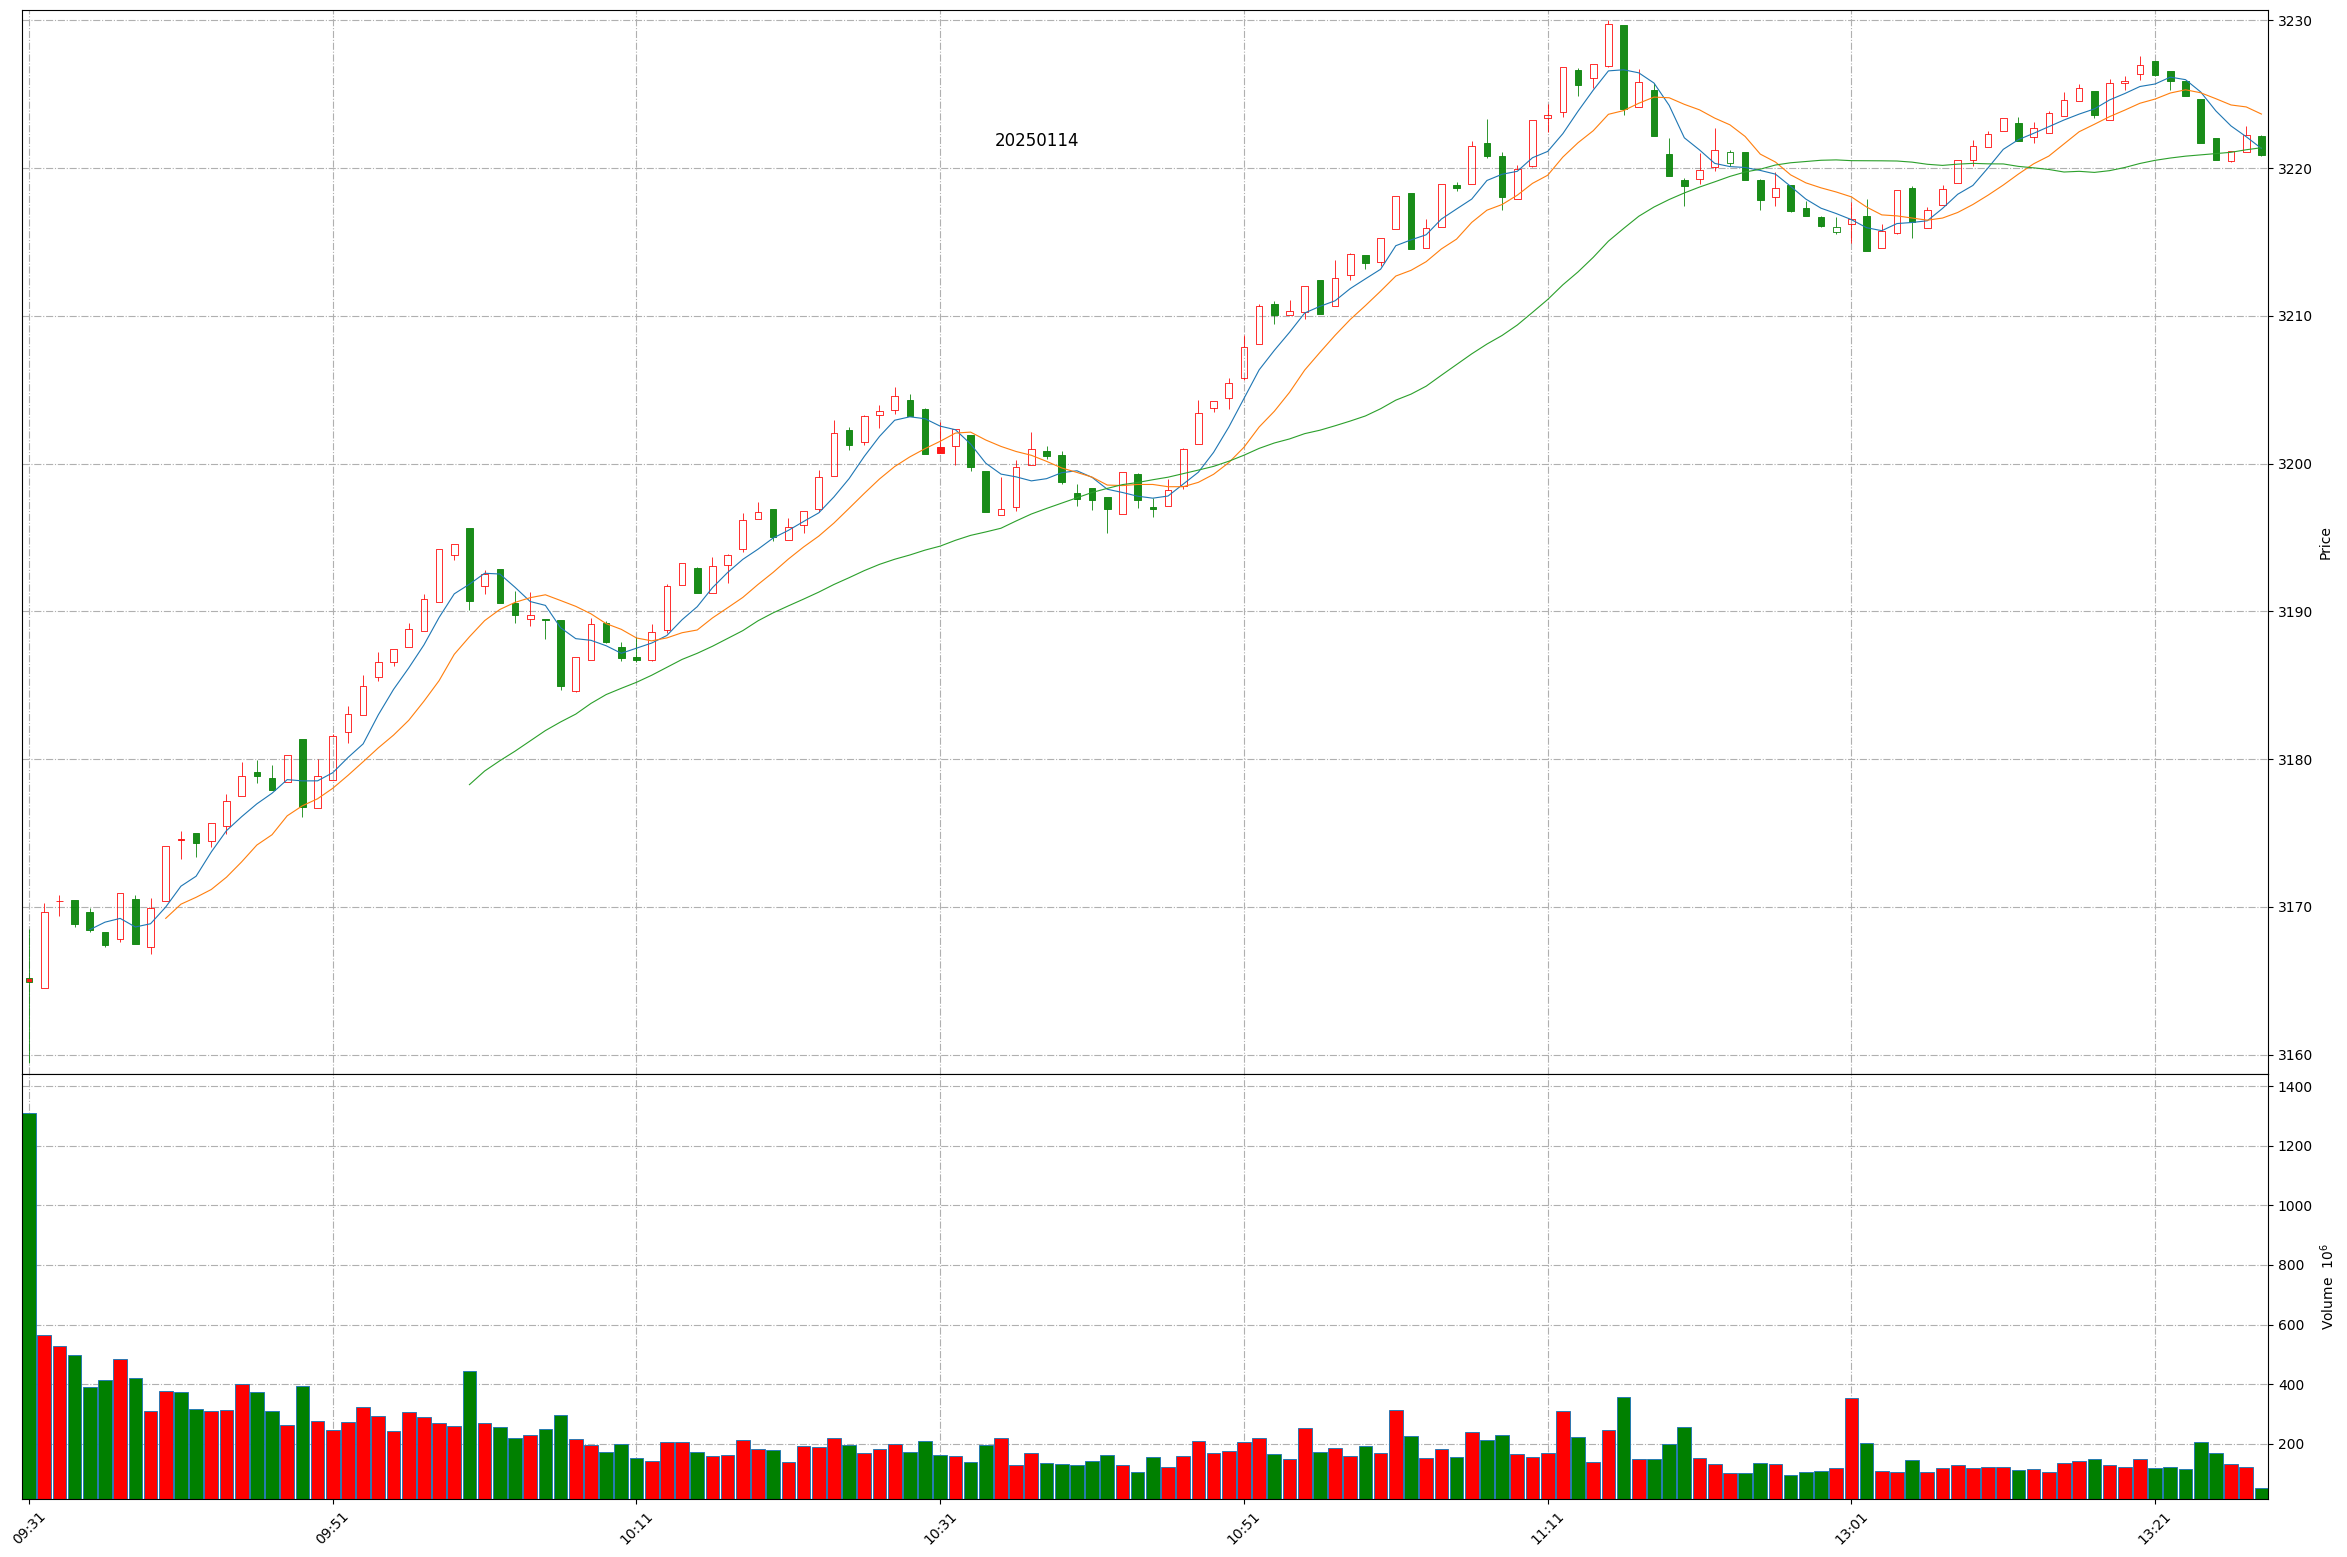
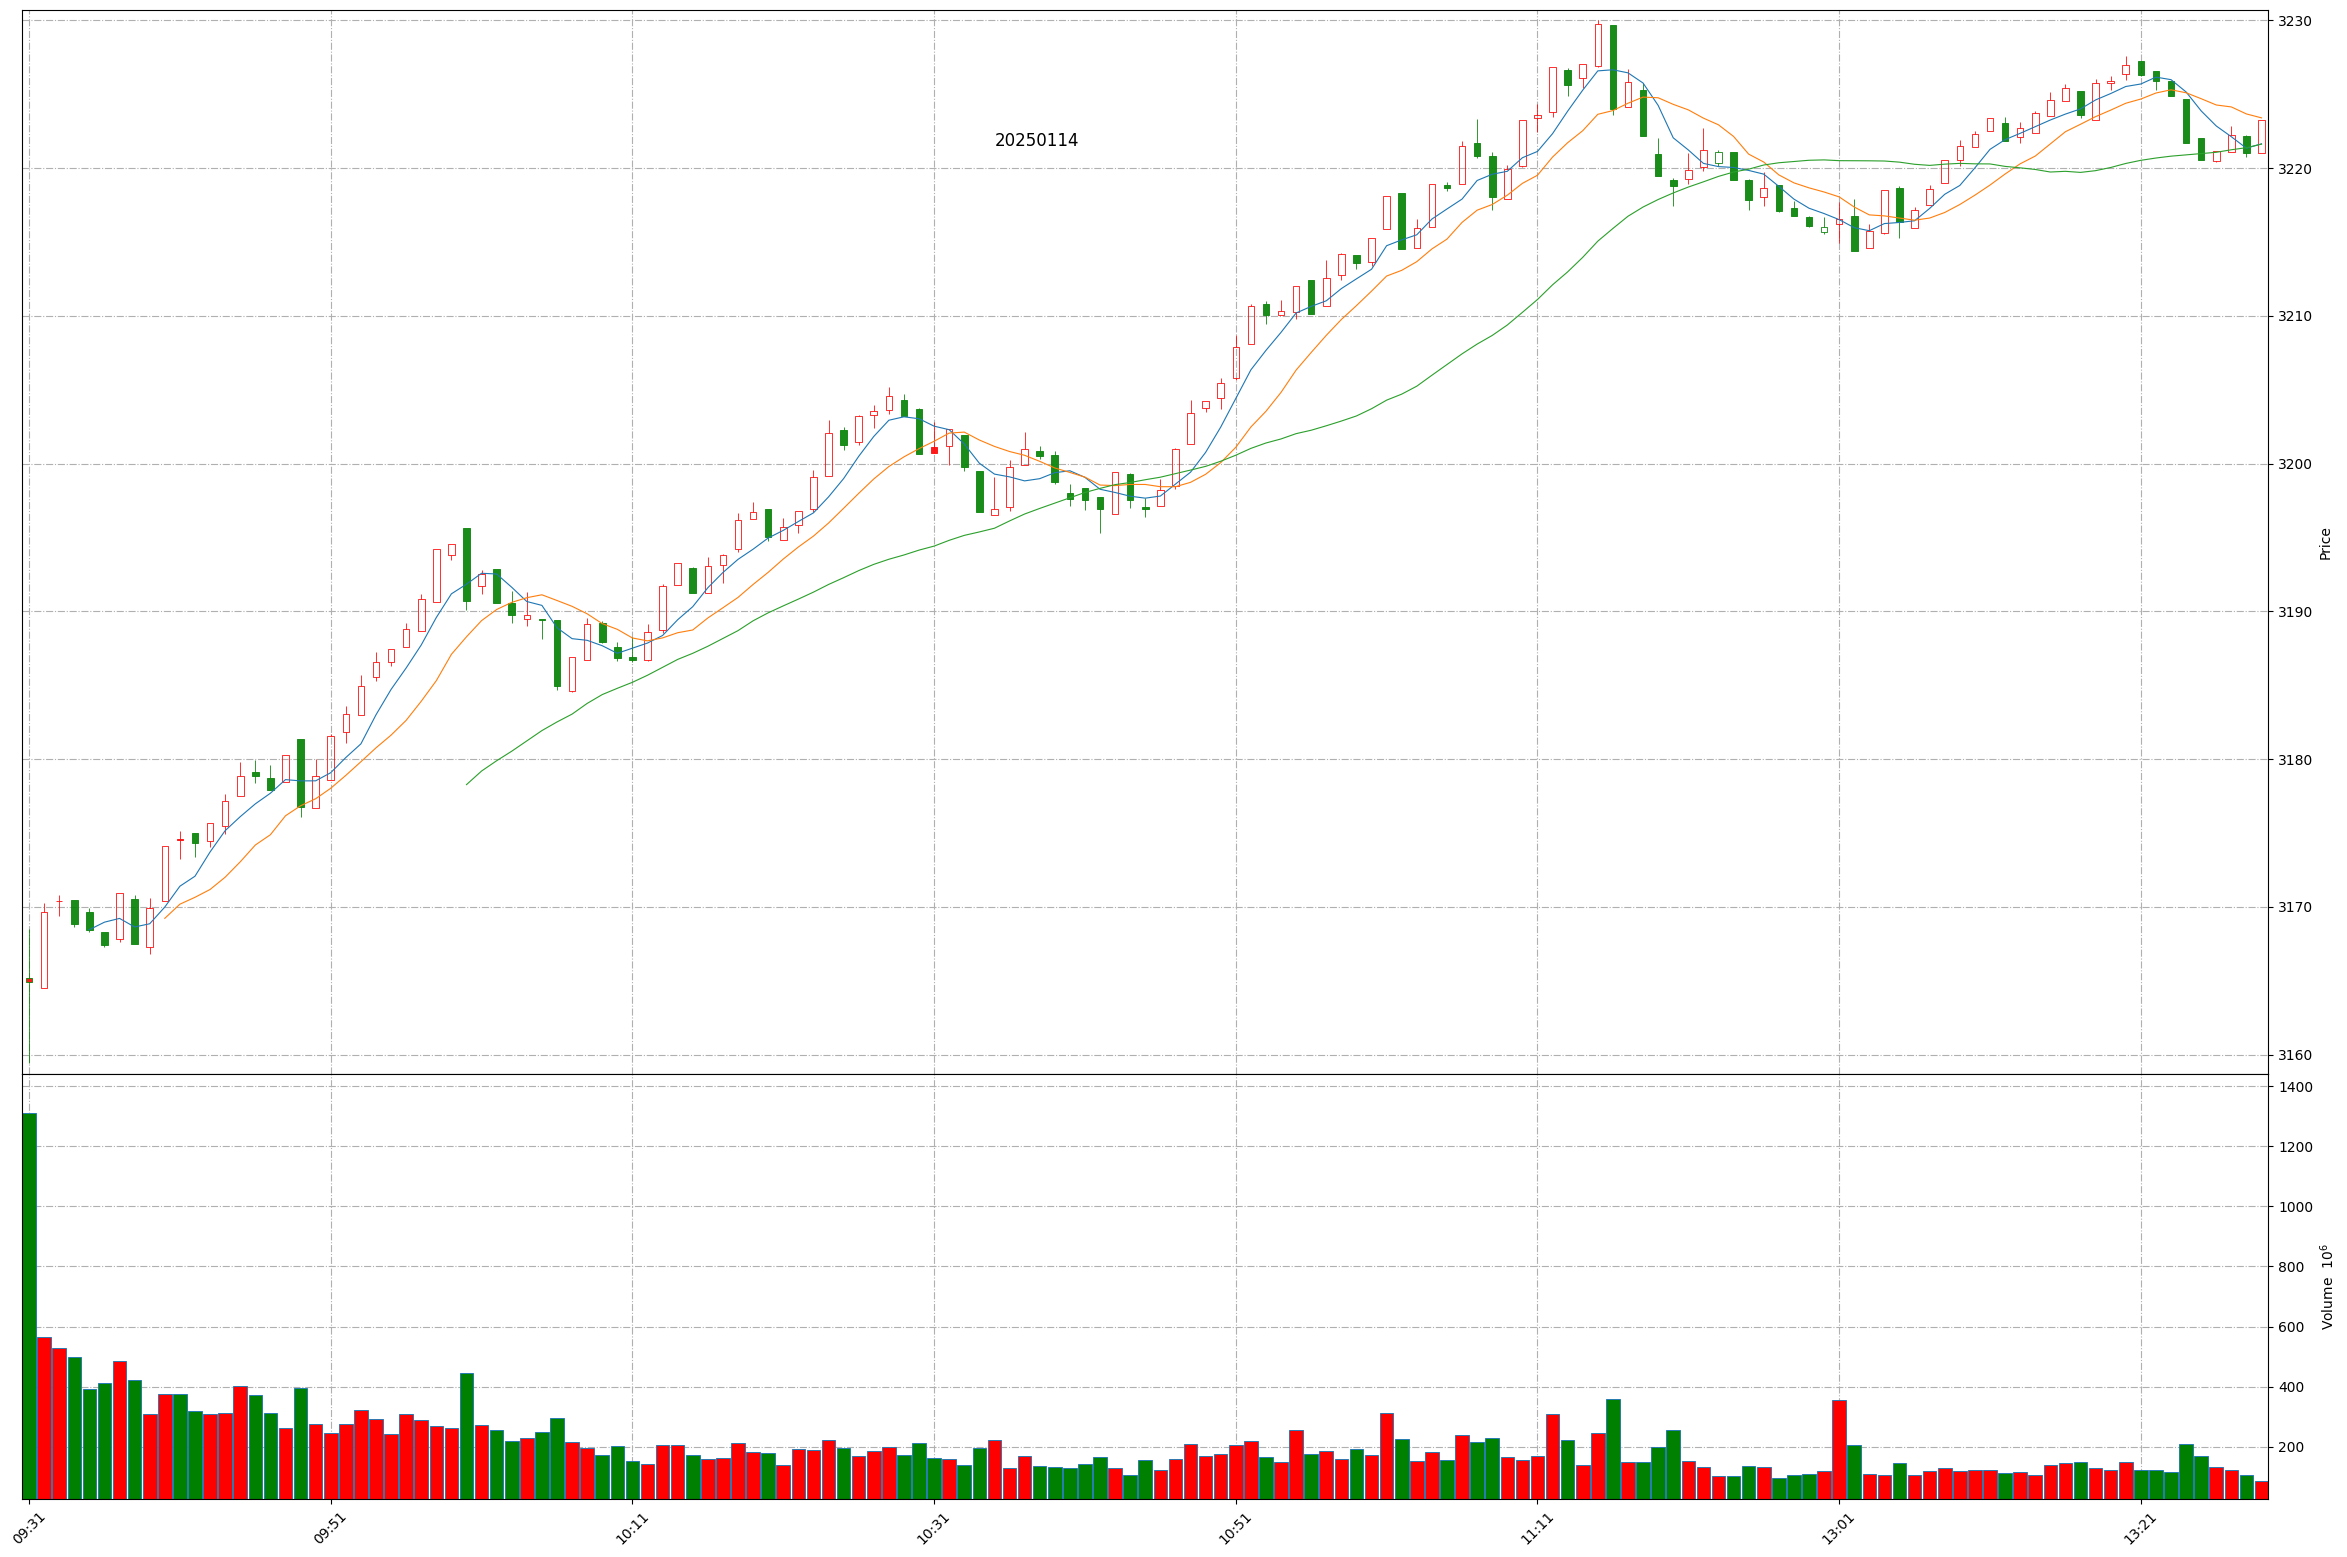
Github action update at 2025-01-14 13:28:59.

diff --git a/README.md b/README.md
@@ -1,11 +1,11 @@
 
 # Daily-A-share-market-quotes 每日 A 股指数（5min 更新）- 20250114
 
-### 上证指数 20250114 13:27
+### 上证指数 20250114 13:28
 ![](./fig/2025/1/20250114-sh000001.png)
 
-### 深证成指 20250114 13:27
+### 深证成指 20250114 13:28
 ![](./fig/2025/1/20250114-sz399001.png)
 
-### 北证50 20250114 13:27
+### 北证50 20250114 13:28
 ![](./fig/2025/1/20250114-bj899050.png)
